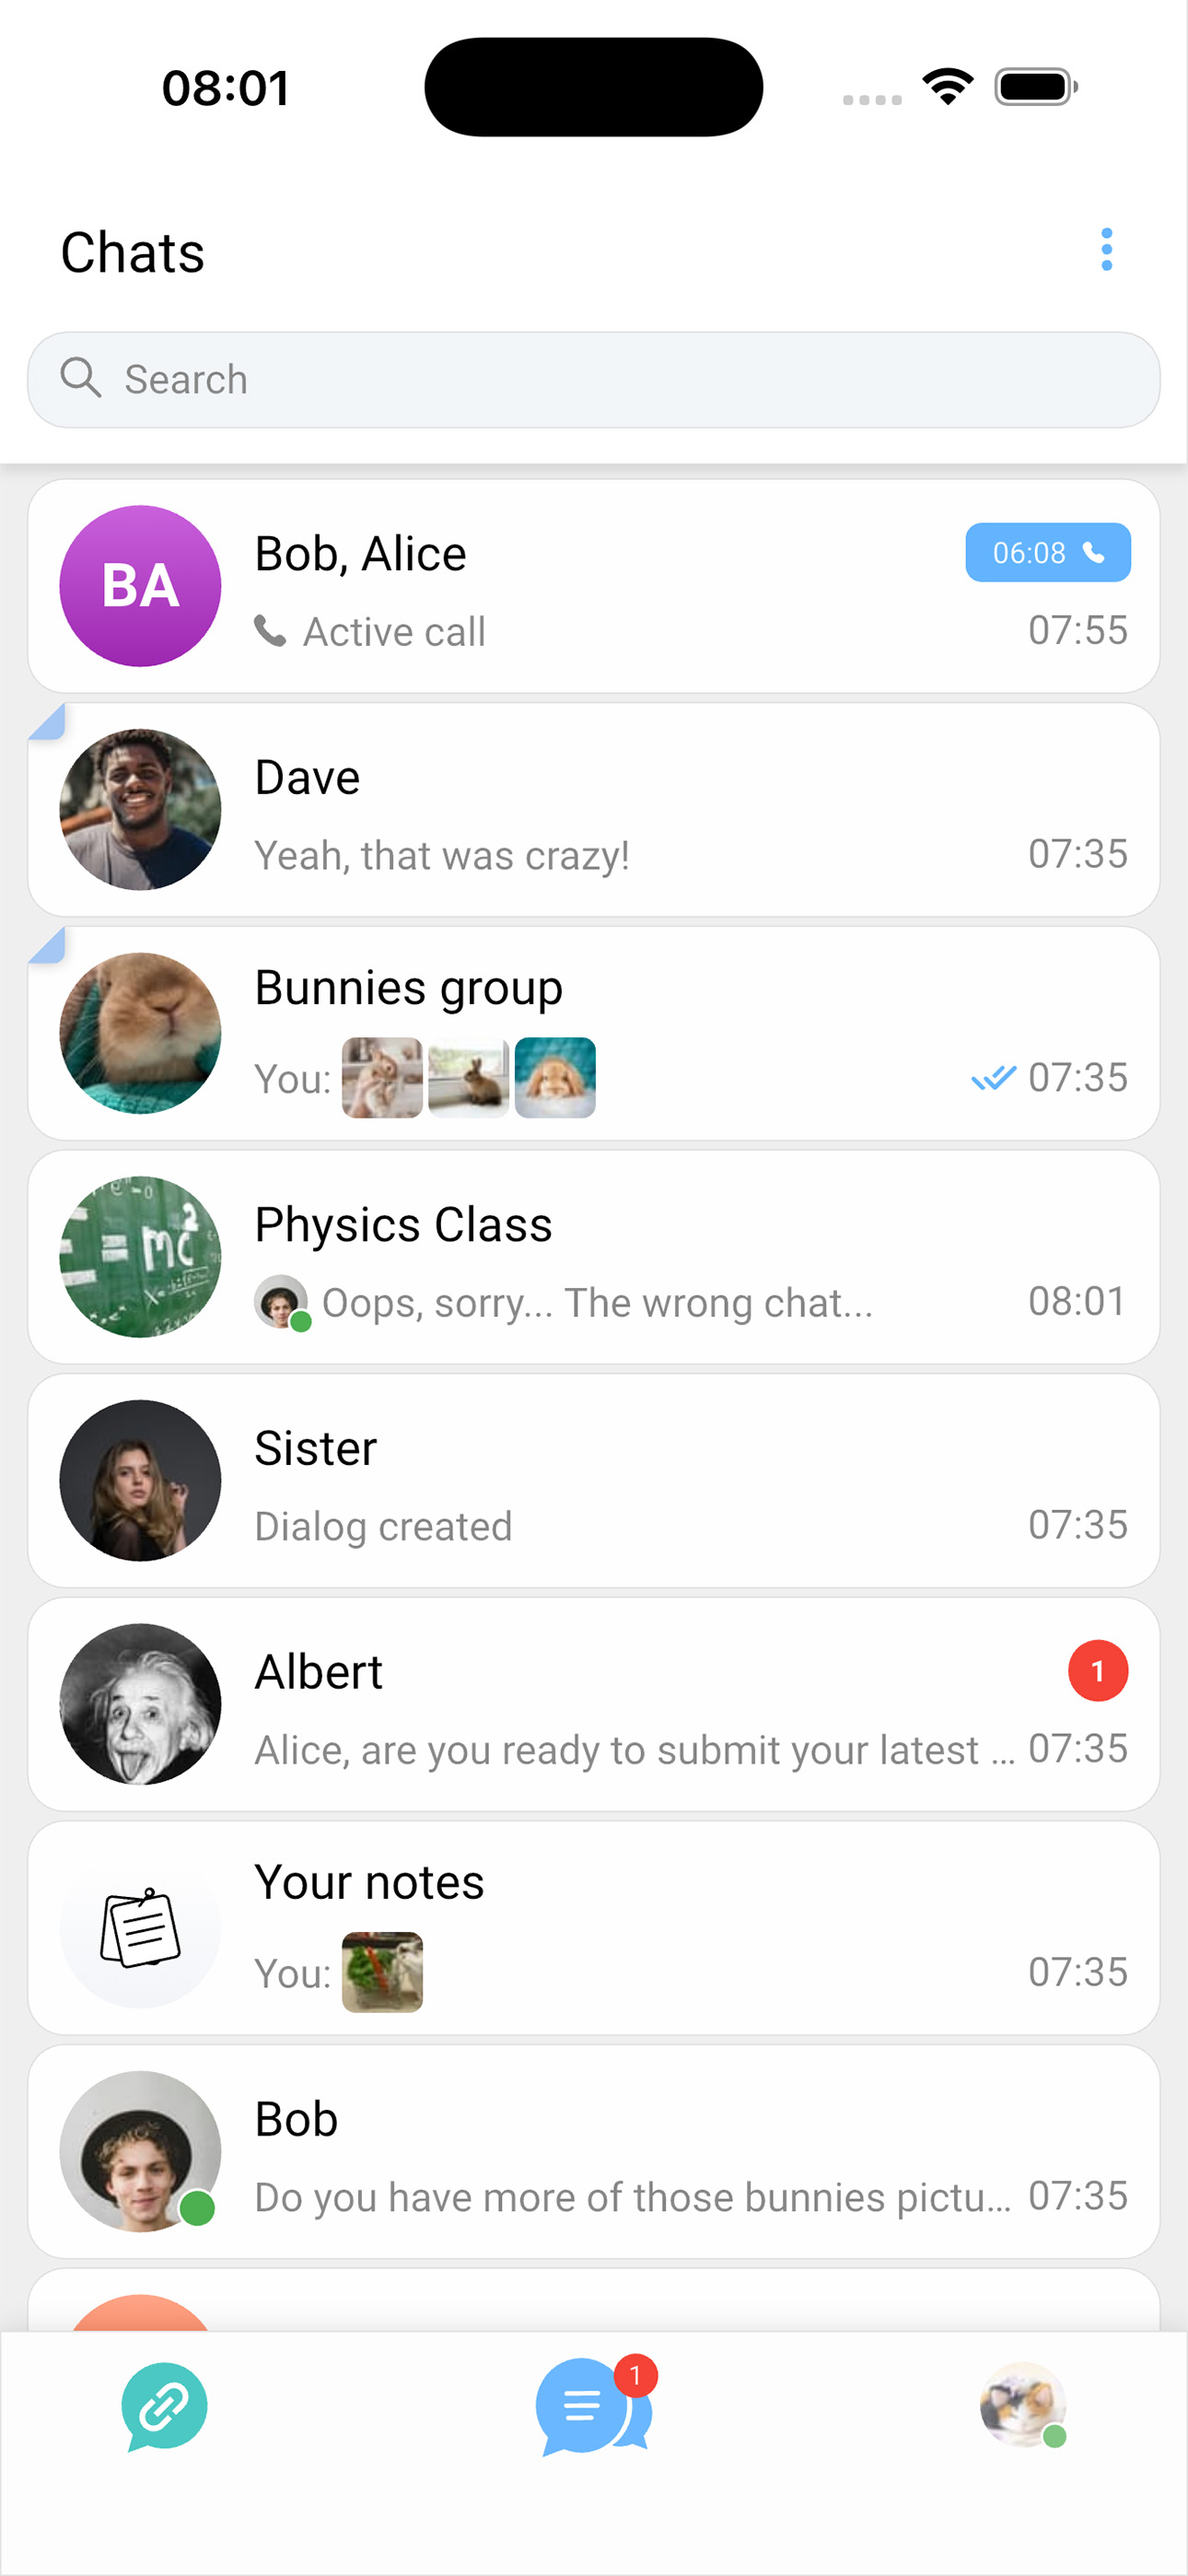
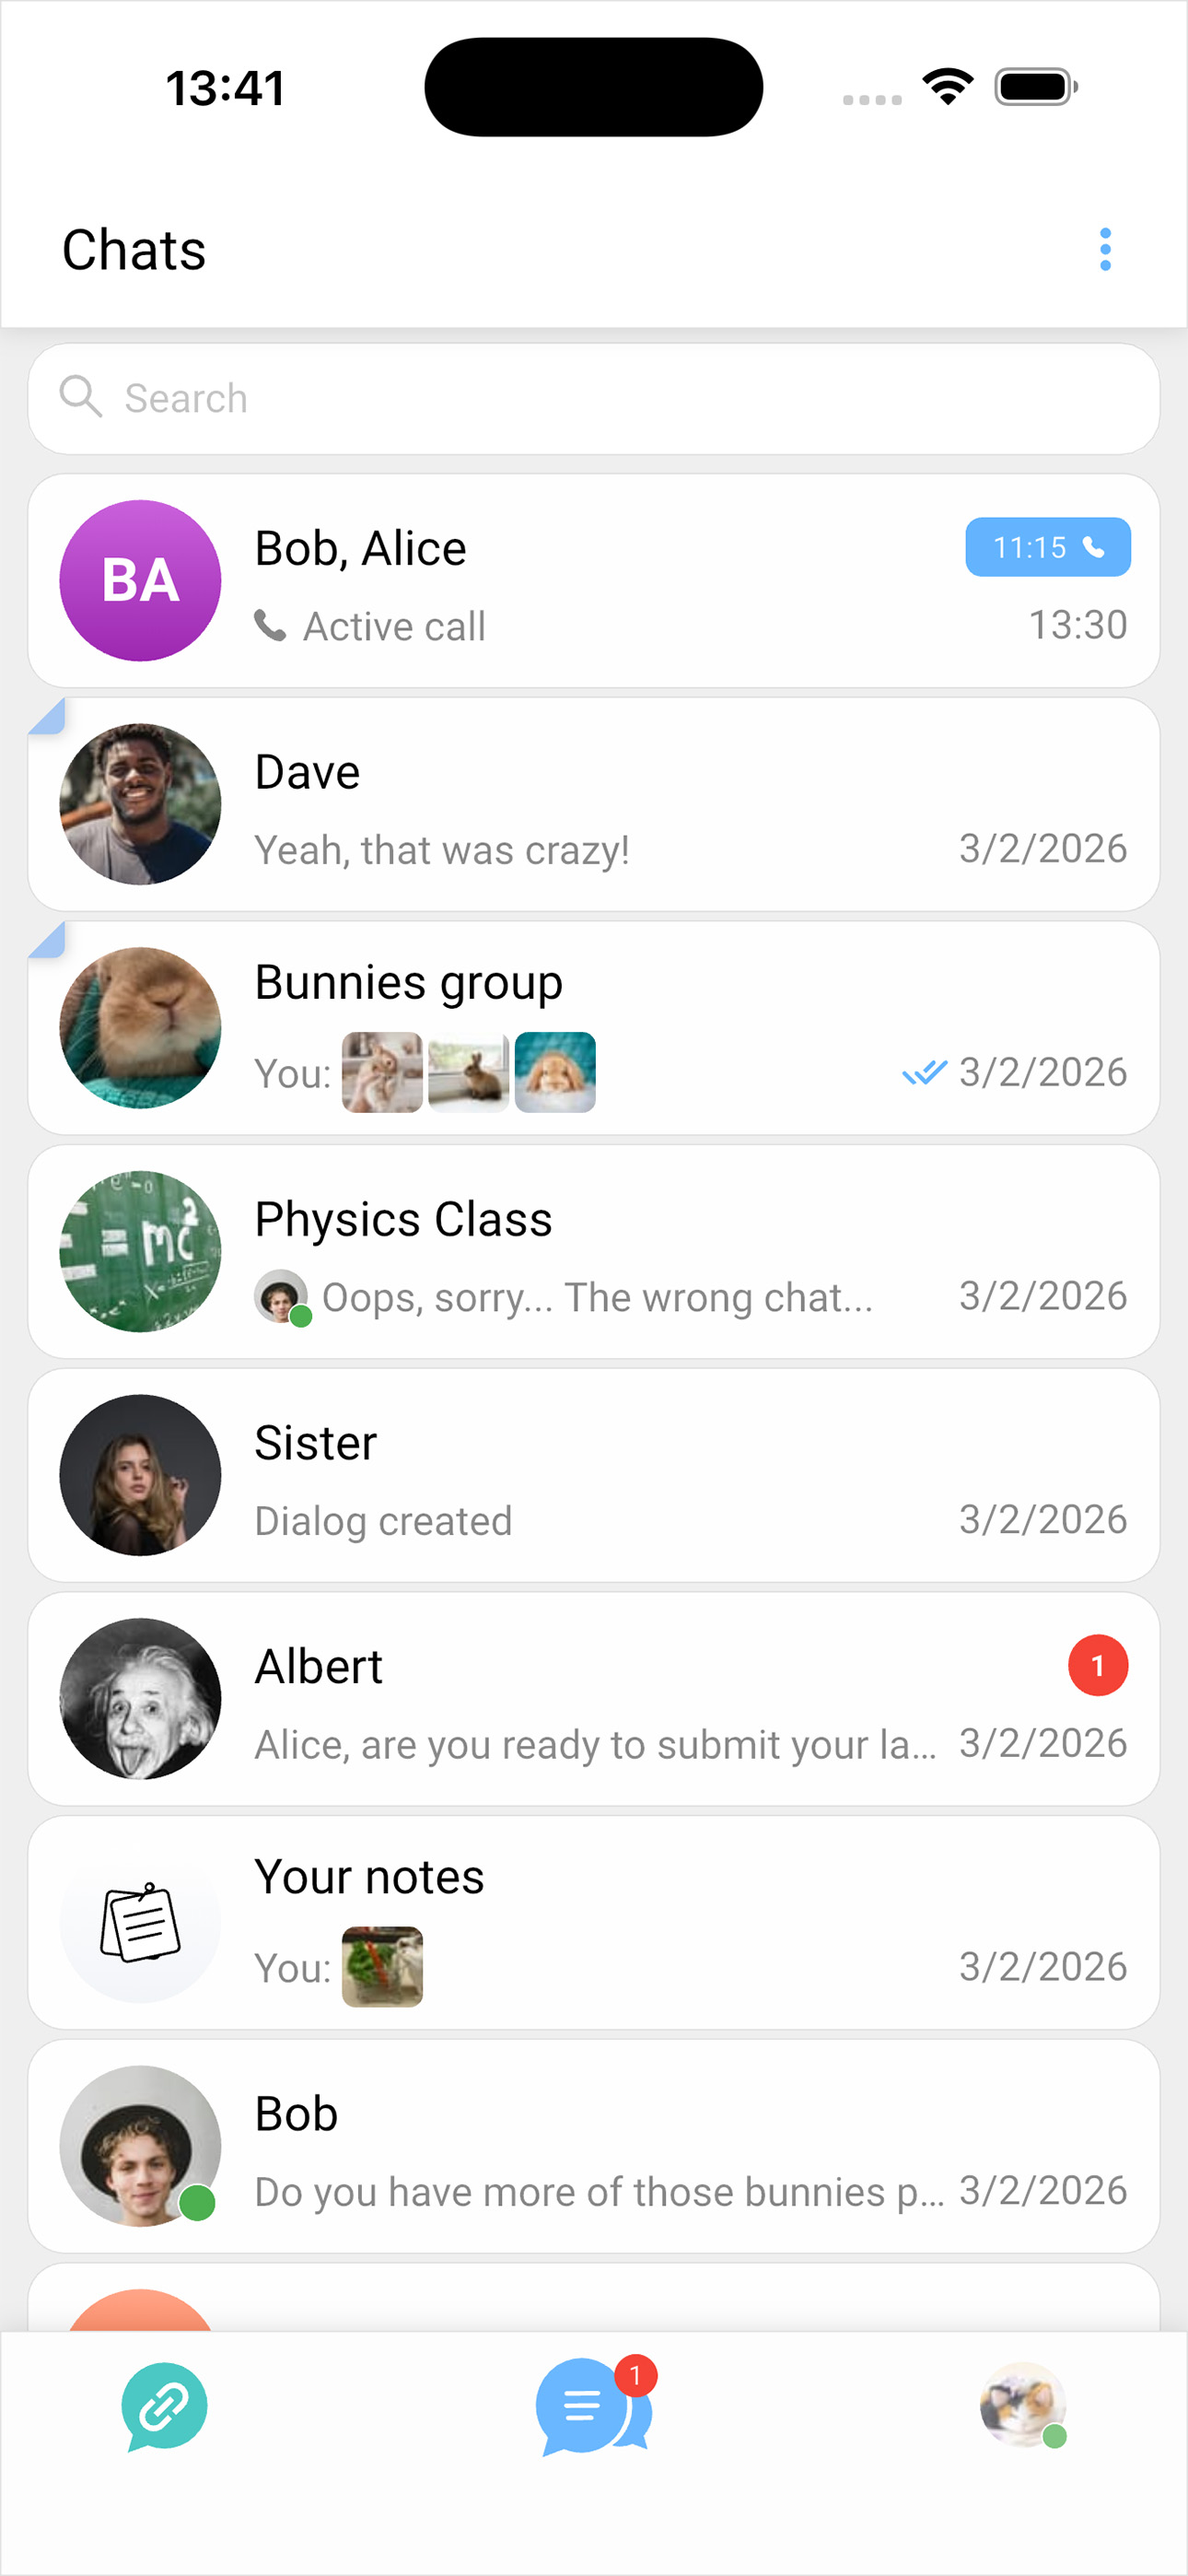
Prepare 0.9.5 project release (#1639)
Additionally:
- set `DeviceVideoTrackConstraints()` to `960x720` resolution

diff --git a/lib/domain/model/ongoing_call.dart b/lib/domain/model/ongoing_call.dart
@@ -1626,7 +1626,7 @@ class OngoingCall {
       if (videoDevice != null) constraints.deviceId(videoDevice.deviceId());
       if (facingMode != null) constraints.idealFacingMode(facingMode);
       constraints.idealWidth(960);
-      constraints.idealHeight(540);
+      constraints.idealHeight(720);
       settings.deviceVideo(constraints);
     }
 

diff --git a/lib/util/media_utils.dart b/lib/util/media_utils.dart
@@ -396,7 +396,7 @@ class MediaUtilsImpl {
         constraints.deviceId(video.device!);
       }
       constraints.idealWidth(960);
-      constraints.idealHeight(540);
+      constraints.idealHeight(720);
       settings.deviceVideo(constraints);
     }
 

diff --git a/release_notes/ru-RU.md b/release_notes/ru-RU.md
@@ -1,3 +1,7 @@
-- Обновлён дизайн профиля пользователя.
-- Обновлён дизайн профиля чата.
+- Добавлено отображение громкости микрофона в модальное окно выбора микрофона.
+- Добавлена горизонтальная прокрутка всего приложения при ширине окна менее 300 пикселей.
+- Обновлён дизайн поиска на вкладке чатов.
+- Обновлено меню выбора прикрепления в чате.
+- Обновлён дизайн некоторых частей медиа плеера на десктоп платформах.
+- Увеличено разрешение исходящей камеры до 960x720.
 - Исправления ошибок и улучшения производительности.

diff --git a/release_notes/es-ES.md b/release_notes/es-ES.md
@@ -1,3 +1,7 @@
-- Página de perfil de usuario rediseñada.
-- Página de perfil de chat rediseñada.
+- Se añadió la visualización del volumen de entrada al modal del interruptor del micrófono.
+- Se añadió el desplazamiento horizontal de toda la aplicación cuando la ventana tiene menos de 300 px de ancho.
+- Se rediseñó la búsqueda en la pestaña de chats.
+- Se rediseñó el menú de selección de archivos adjuntos en el chat.
+- Se rediseñaron algunas partes del reproductor multimedia de escritorio.
+- Se aumentó la resolución de la cámara en las llamadas a 960x720.
 - Corrección de errores y mejoras de rendimiento.

diff --git a/release_notes/en-US.md b/release_notes/en-US.md
@@ -1,3 +1,7 @@
-- Redesigned user profile page.
-- Redesigned chat profile page.
+- Added input volume displaying to microphone switch modal.
+- Added horizontal scrolling of whole application when window is less than 300px wide.
+- Redesigned searching on chats tab.
+- Redesigned attachments picker menu in chat.
+- Redesigned some parts of desktop media player.
+- Increased camera resolution in calls to 960x720.
 - Bug fixes and performance improvements.

diff --git a/CHANGELOG.md b/CHANGELOG.md
@@ -26,7 +26,7 @@ All user visible changes to this project will be documented in this file. This p
         - Redesigned attachments buttons. ([#1633])
         - Redesigned desktop player. ([#1636])
     - Media panel:
-        - Increased camera resolution to 960x540. ([#1637])
+        - Increased camera resolution to 960x720. ([#1637])
 
 ### Fixed
 
